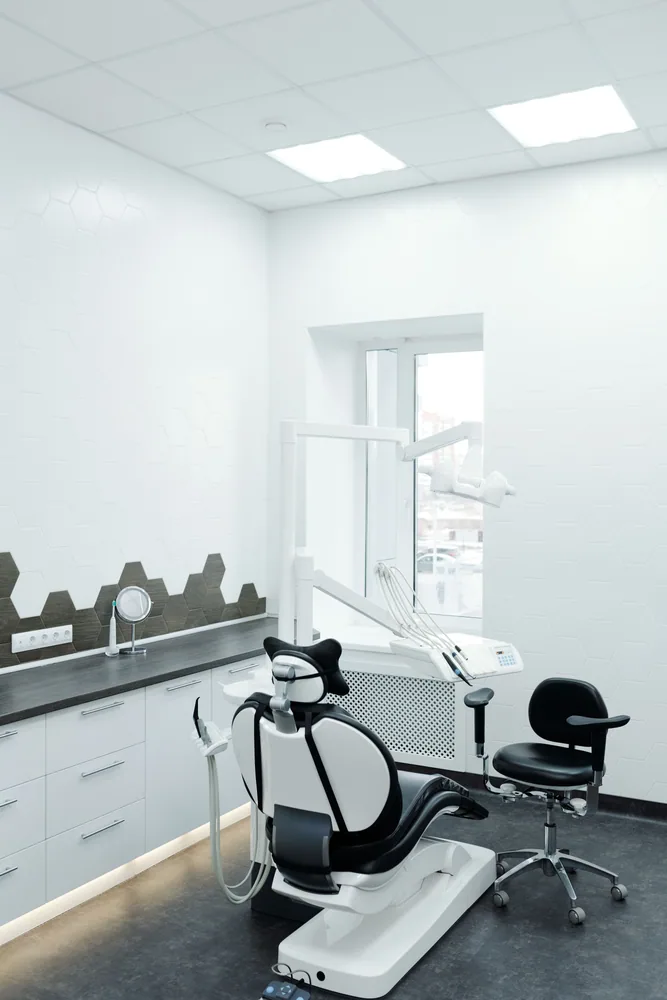
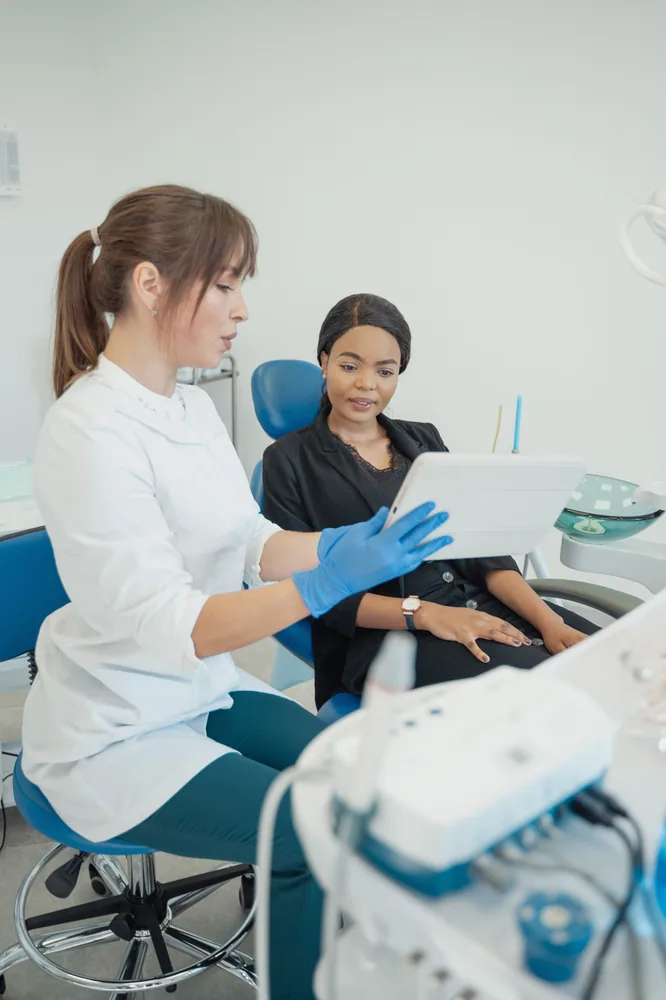
Replace two demo photos on flagship-medicine

diff --git a/src/data/demo-dental.ts b/src/data/demo-dental.ts
@@ -15,10 +15,10 @@ export const urgentToday = {
 
 export const anesthesiaImage = {
 	src: "/images/demo-dental/dental-anesthesia.webp",
-	alt: "Світлий кабінет стоматолога",
-	width: 667,
+	alt: "Лікарі розмовляють із пацієнтом у стоматологічному кабінеті",
+	width: 666,
 	height: 1000,
-	position: "50% 70%",
+	position: "50% 14%",
 };
 
 export const anesthesiaComfort = {
